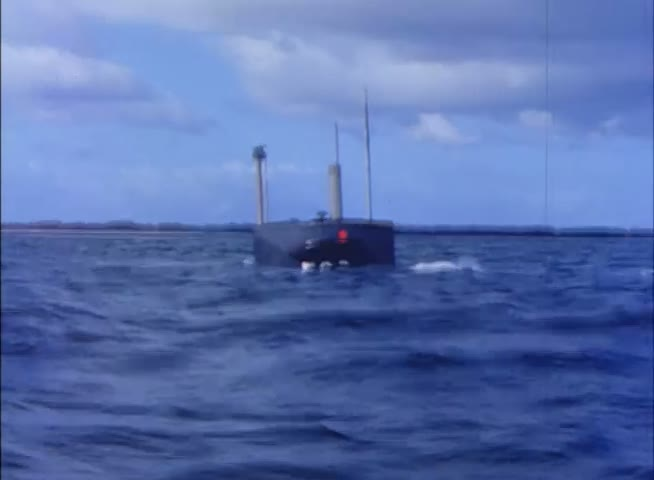
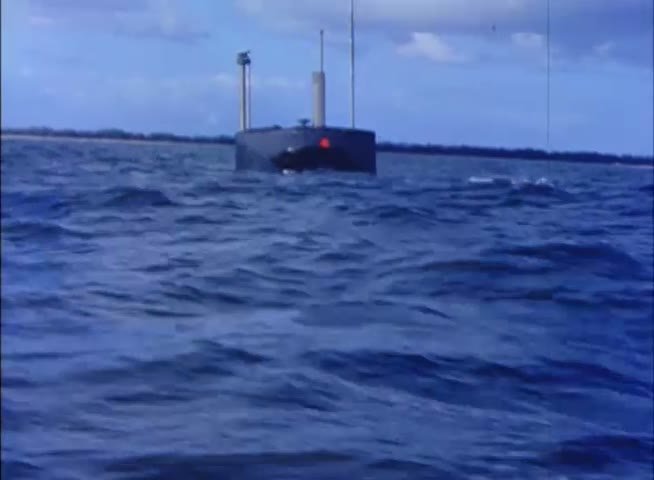
18本目⑤b-7c: 試し焼きの粗4つ（記録映画が全画面に引き伸ばし・c102 の頭が遠くの艦・c903 の紙の字・c906 のカードの字）
- cuts/ss.py に残っていた前の回の vid（panel なし）が新しい vid を上書きしていた＝外した（額装＋地のぼかしに）
- 85185 の #62 は465秒で切り替わる2ショット＝ep18_assets.SHOT_SPLIT で割った・c102 は 465.2〜468.0秒（rate 0.66）
- c903（タイプライターの紙にドイツ語のロズウェルの題）・c906（カードにロシア語）＝zoom・bias で字の無い所へ
- ep18_assets.py fb にカットの指定

diff --git a/tools/footage.py b/tools/footage.py
@@ -465,7 +465,9 @@ USE = {
     #   ⚠ 記録映画の撮影日は分からない（NARA の日付は公開の束の日付のことがある＝85185）＝副題に年を書かない（進水 83213 は1960年）
     #   ⚠ c621・cb14・cb19 は人が写る＝遠景だけ（追悼の参列者の顔の分かるショット・83746 の乗用車の場面は使わない）
     #   ⚠ ca09 は PLAN の 83766（ボストンの造船所）に赤白のトリエステの使える長さのショットが無い＝試験潜航の 83757 の別のショット
-    "c102": dict(clip="nara85185", start=462.2, until=468.0, rate=1.0, head=True),   # #62（462〜469秒・要 4.20秒）頭の1行：セイルの「593」の寄り（上に乗員）
+    #   ⚠ ショットの番号は見取り図（割る前）の番号。試し焼き 37246867517 で c102 の頭が遠くの艦だった＝#62 は 465秒で切り替わる
+    #      2つのショット（ep18_assets.SHOT_SPLIT で割った）＝465秒からの寄りだけ（rate＝2.8÷4.2 を切り捨て 0.66＝少しゆっくり）
+    "c102": dict(clip="nara85185", start=465.2, until=468.0, rate=0.66, head=True),   # #62 の後半（465〜469秒・要 4.20秒）頭の1行：セイルの「593」の寄り（上に乗員）
     "c202": dict(clip="nara85185", start=638.2, until=646.0, rate=0.84),   # #79（638〜647秒・要 9.26秒）波を立てて走る艦（セイルの593）
     "c212": dict(clip="nara85185", start=144.2, until=157.0, rate=0.94),   # #27（144〜158秒・要 13.61秒）雲の下を走る艦・セイルの593
     "c301": dict(clip="nara85185", start=164.2, until=171.0, rate=0.84),   # #29（164〜172秒・要 8.09秒）岸と建物を背に走る艦（セイルの593）
@@ -494,8 +496,12 @@ USE = {
     "c511": dict(clip="sea_dark_5668613", start=1.0, until=7.0, rate=1.0, head=True),   # #0（0〜8秒・要 5.00秒）頭の1行（1ショットに直した＝ep18_assets.SHOT_ONE）
     "c805": dict(clip="deep_sun_48596", start=1.0, until=19.0, rate=1.0, head=True),   # #0（0〜20秒・要 2.96秒）頭の1行
     "c812": dict(clip="deep_blue_32790667", start=1.0, until=14.0, rate=1.0, head=True),   # #0（0〜15秒・要 5.89秒）頭の1行
-    "c903": dict(clip="typewriter_33068304", start=10.5, until=31.0, rate=1.0, head=True),   # #3（10〜32秒・要 6.28秒）頭の1行
-    "c906": dict(clip="files_hands_6549976", start=3.5, until=13.0, rate=1.0, head=True),   # #1（3〜14秒・要 3.18秒）頭の1行
+    #   🔴 試し焼き 37246867517：c903 の紙にドイツ語の字「Rosswell, die wahren Ereignisse」（ロズウェル事件＝UFO の陰謀論の題）が
+    #      読めた・c906 のカードにロシア語の字＝寄せて字の無い所だけ（c903＝左下の活字の籠・c906＝右上の手とカードの上）
+    "c903": dict(clip="typewriter_33068304", start=10.5, until=31.0, rate=1.0, head=True,
+                 zoom=1.8, bias=1.0, xbias=0.0),   # #3（10〜32秒・要 6.28秒）頭の1行＝活字の籠の寄り
+    "c906": dict(clip="files_hands_6549976", start=3.5, until=13.0, rate=1.0, head=True,
+                 zoom=1.6, bias=0.0, xbias=1.0),   # #1（3〜14秒・要 3.18秒）頭の1行＝手とカードの上
     "ca05": dict(clip="seabed_sand_11781634", start=1.0, until=11.0, rate=1.0, head=True),   # #0（0〜12秒・要 5.95秒）頭の1行
     "ca06": dict(clip="seabed_murky_33896777", start=1.0, until=15.0, rate=1.0, head=True),   # #0（0〜16秒・要 2.62秒）頭の1行
 }

diff --git a/qa_out/ep18_assets.py b/qa_out/ep18_assets.py
@@ -991,6 +991,25 @@ SHOT_ONE = {
 }
 
 
+# 🔴 境目の物差しが**短いショットをまとめてしまった**所＝割る（秒・根拠と目で確かめた事）。
+#    物差しは「続けて差が大きい秒」を1つの境目に畳む（ディゾルブ用）＝3秒の短いショットが前後の切り替わりと一緒に畳まれる
+SHOT_SPLIT = {
+    'nara85185': {465.0: '#62（462〜469秒）の中で切り替わる＝462〜464秒は遠くの艦・465秒から「593」のセイルの寄り（1秒1コマを並べて'
+                         '2026-10-05 ⑤b-7c に目で確かめた・試し焼き 37246867517 の c102 の頭が遠くの艦だった）'},
+}
+
+
+def _split(shots, cuts):
+    out = []
+    for s in shots:
+        inner = sorted(t for t in cuts if s['start'] < t < s['until'])
+        a = s['start']
+        for t in inner + [s['until']]:
+            out.append(dict(start=a, until=t, motion=s['motion']))
+            a = t
+    return out
+
+
 def cmd_shots(probe):
     """ref/ep18/shots.json（footage.SHOTS）。記録映画＝⑤b-7c に1本につき網から1回だけ読み流した1秒1コマから
     `tools/shots.boundaries()`（同じ物差し）で出した境目（probe＝scratchpad の films/probe.json）・フリー素材＝手元の mp4 を
@@ -1001,9 +1020,13 @@ def cmd_shots(probe):
     out = {}
     for na in FILMS:
         v = pr[na]
-        out[f'nara{na}'] = dict(src=MOPIX + f"428-npc-{FILMS[na]['npc']}.mp4", dur=float(v['nframes']),
-                                how='1秒1コマを読み流して tools/shots.boundaries（2026-10-05・丸ごとは保存しない）',
-                                shots=v['shots'])
+        how = '1秒1コマを読み流して tools/shots.boundaries（2026-10-05・丸ごとは保存しない）'
+        sh = v['shots']
+        if f'nara{na}' in SHOT_SPLIT:
+            sp = SHOT_SPLIT[f'nara{na}']
+            sh = _split(sh, sp)
+            how += '＋割った境目 ' + '・'.join(f'{t:.0f}秒（{w}）' for t, w in sp.items())
+        out[f'nara{na}'] = dict(src=MOPIX + f"428-npc-{FILMS[na]['npc']}.mp4", dur=float(v['nframes']), how=how, shots=sh)
     led = json.loads((DEST / 'stock.json').read_text(encoding='utf-8'))
     for n, r in led.items():
         sh, dur = shots.shots_of(str(DEST / r['file']))
@@ -1019,7 +1042,7 @@ def cmd_shots(probe):
     return 0
 
 
-def cmd_fb():
+def cmd_fb(only=None):
     """ひかえの静止画（コマが切り出せなかったときだけ出る絵）＝footage.USE の start の1コマ。
     記録映画＝ref/ep18/fb_<カット>.jpg（URL から1コマ・SAR を直して 655×480）／フリー素材の頭＝ref/ep18/stock/fb_<カット>.jpg
     （手元の mp4 から・幅1280）。🔴 名前に fb_ を付ける＝門番 credits は「動画の出典を借りる」として表と照らさない"""
@@ -1028,6 +1051,8 @@ def cmd_fb():
     import footage as FO
     bad = 0
     for cid, u in FO.USE.items():
+        if only and cid not in only:        # `fb c102` のようにカットを書けばそのカットだけ（ほかの md5 を動かさない）
+            continue
         c = FO.CLIPS[u['clip']]
         t = float(u['start'])
         if c.get('stock'):
@@ -1070,7 +1095,7 @@ def main():
     if cmd == 'shots':
         return cmd_shots(a[1])
     if cmd == 'fb':
-        return cmd_fb()
+        return cmd_fb(set(a[1:]) or None)
     if cmd == 'build':
         return cmd_build(set(a[1:]) or None)
     if cmd == 'check':

diff --git a/tools/cuts/ss.py b/tools/cuts/ss.py
@@ -387,9 +387,9 @@ def _clips():
     return json.loads(p.read_text(encoding="utf-8"))
 
 
-def vid(cid, **kw):
-    """動く映像のカット（ひかえの静止画つき）を1行で書く。秒は `footage.USE` が持つ。"""
-    return dict(photo=fb(cid), **kw)
+# 🔴 2026-10-05（18本目 ⑤b-7c）：ここにあった前の回の `vid`（panel を付けない版＝`dict(photo=fb(cid), **kw)`）は外した。
+#    上（fb のすぐ下）の新しい `vid` を**あとから上書きしていた**＝記録映画（655×480）が全画面に引き伸ばされて焼けた
+#    （試し焼き 37246867517・21カット全部）。同じ名前の関数を2つ置かない（`grep -n "^def " tools/cuts/ss.py` で重なりを見る）
 
 
 # ══════════════════════════════════════════════════════════
